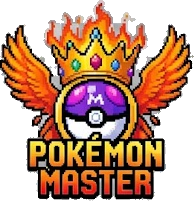
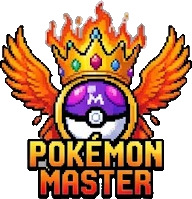
Mastery badges: remove grey JPEG fringes
Claude-Session: https://claude.ai/code/session_01P1RLB2ttaRufLc3J3cuZGe

diff --git a/js/mastery.js b/js/mastery.js
@@ -30,7 +30,7 @@
   var PS = null;
 
   var imgs = {};
-  TIERS.forEach(function (t) { var im = new Image(); im.src = 'assets/ui/mastery/' + t.id + '.webp?v=2'; imgs[t.id] = im; });
+  TIERS.forEach(function (t) { var im = new Image(); im.src = 'assets/ui/mastery/' + t.id + '.webp?v=3'; imgs[t.id] = im; });
 
   // ------------------------------------------------------------ data
   function blank() { return { d: {}, eq: {} }; }
@@ -202,7 +202,7 @@
     var key = dex + '|' + Math.floor(dmg) + '|' + eq;
     if (!force && key === lastKey) return;
     lastKey = key;
-    P.querySelector('.mp-badge').innerHTML = T ? '<img src="assets/ui/mastery/' + T.id + '.webp?v=2" alt="' + T.name + '">'
+    P.querySelector('.mp-badge').innerHTML = T ? '<img src="assets/ui/mastery/' + T.id + '.webp?v=3" alt="' + T.name + '">'
       : '<div class="none">No mastery yet<br>Deal 5M damage<br>to unlock Rookie</div>';
     P.querySelector('.mp-name').textContent = T ? T.name + (eq ? ' · equipped' : '') : 'Locked';
     var b = P.querySelector('.mp-eq');
@@ -217,7 +217,7 @@
     P.querySelector('.mp-tiers').innerHTML = TIERS.map(function (t, k) {
       var c = k === i ? 'cur' : k < i ? 'past' : 'lock';
       return '<span class="' + c + '" title="' + t.name + ' · ' + fmt(t.need) + ' damage' + (k < i ? ' (evolved)' : '') + '">' +
-        '<img src="assets/ui/mastery/' + t.id + '.webp?v=2" alt=""></span>';
+        '<img src="assets/ui/mastery/' + t.id + '.webp?v=3" alt=""></span>';
     }).join('');
   }
   function uiLoop() {

diff --git a/index.html b/index.html
@@ -679,7 +679,7 @@
 <script src="js/english.js"></script>
 <script src="js/unstick.js"></script>
 <script src="js/bossrush.js?v=rk-br5"></script>
-<script src="js/mastery.js?v=rk-ms3"></script>
+<script src="js/mastery.js?v=rk-ms4"></script>
 <script defer src="js/app.min.js?v=rk-br3"></script>
 <script>(function () { var l = document.getElementById('priv-local'); if (!l) return;
   if (window.PS_FIREBASE && window.PS_FIREBASE.apiKey) { l.remove(); return; }
